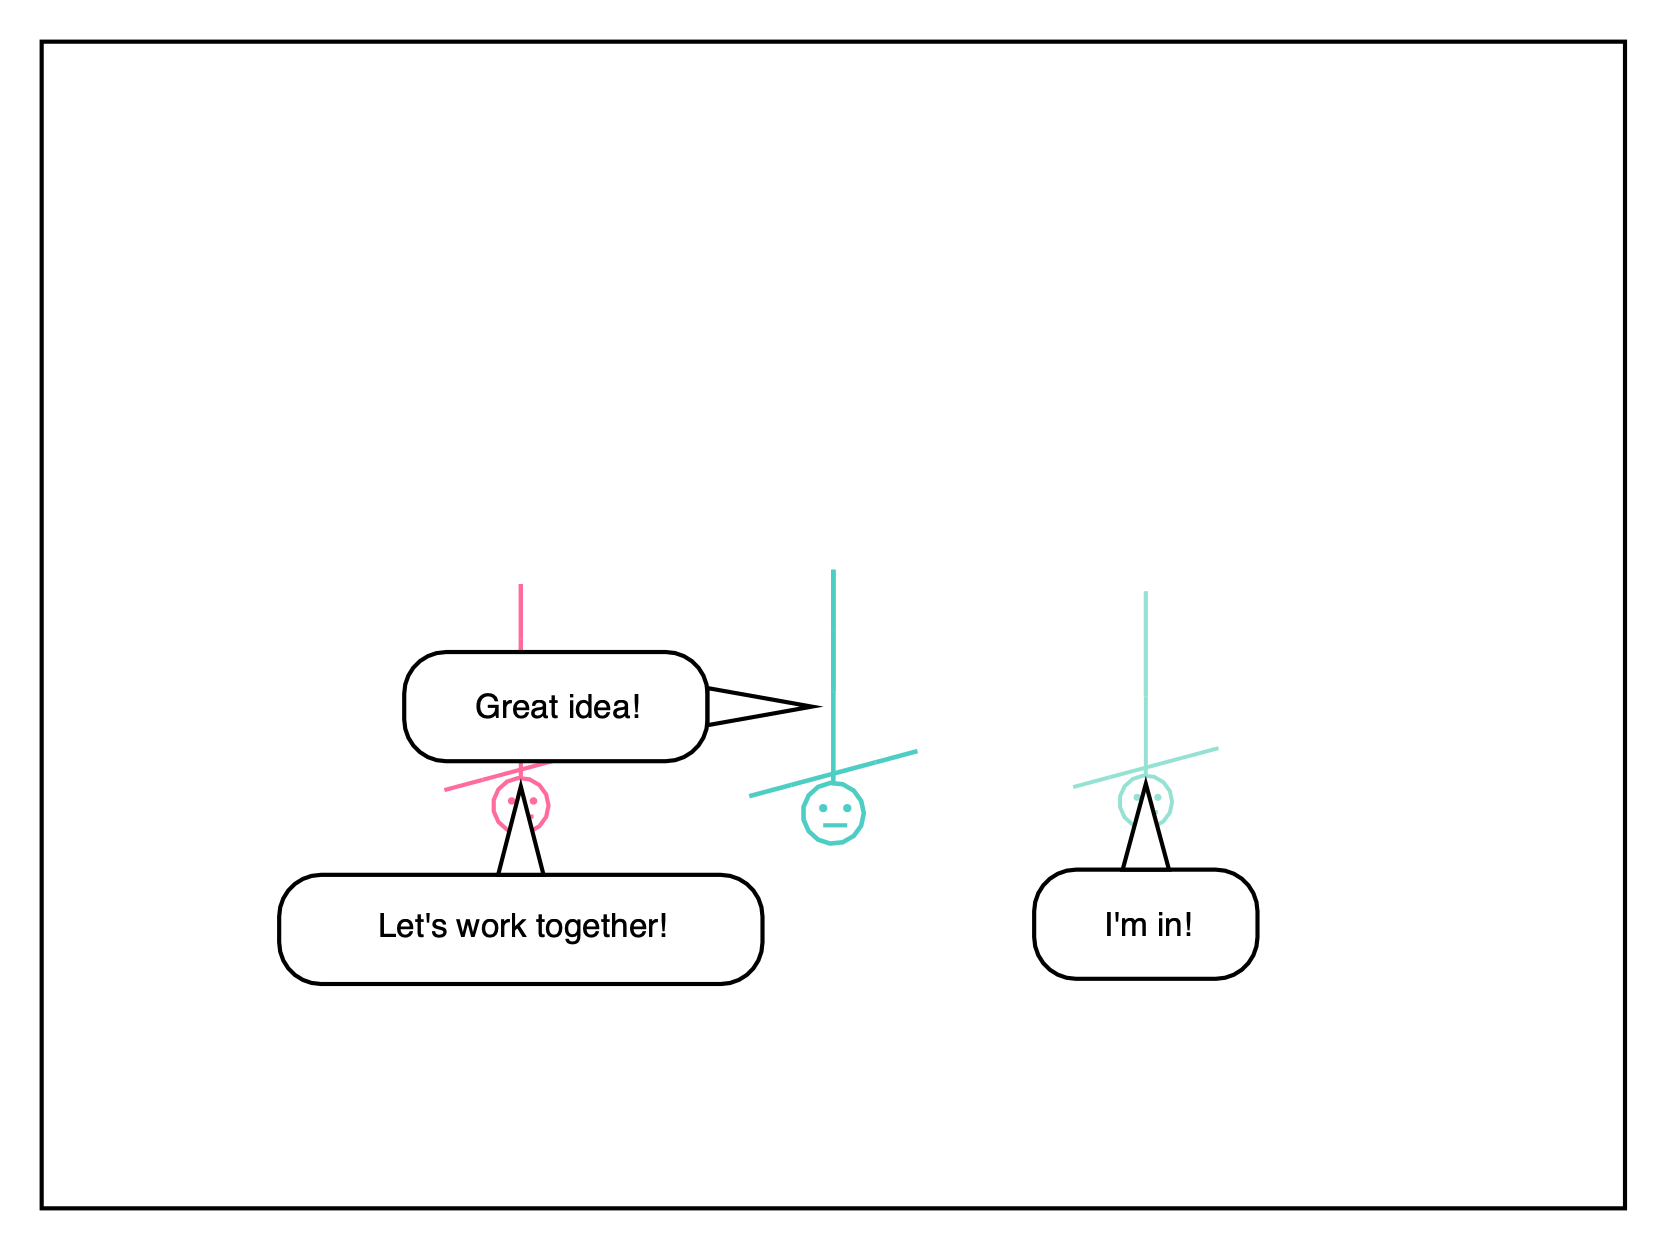
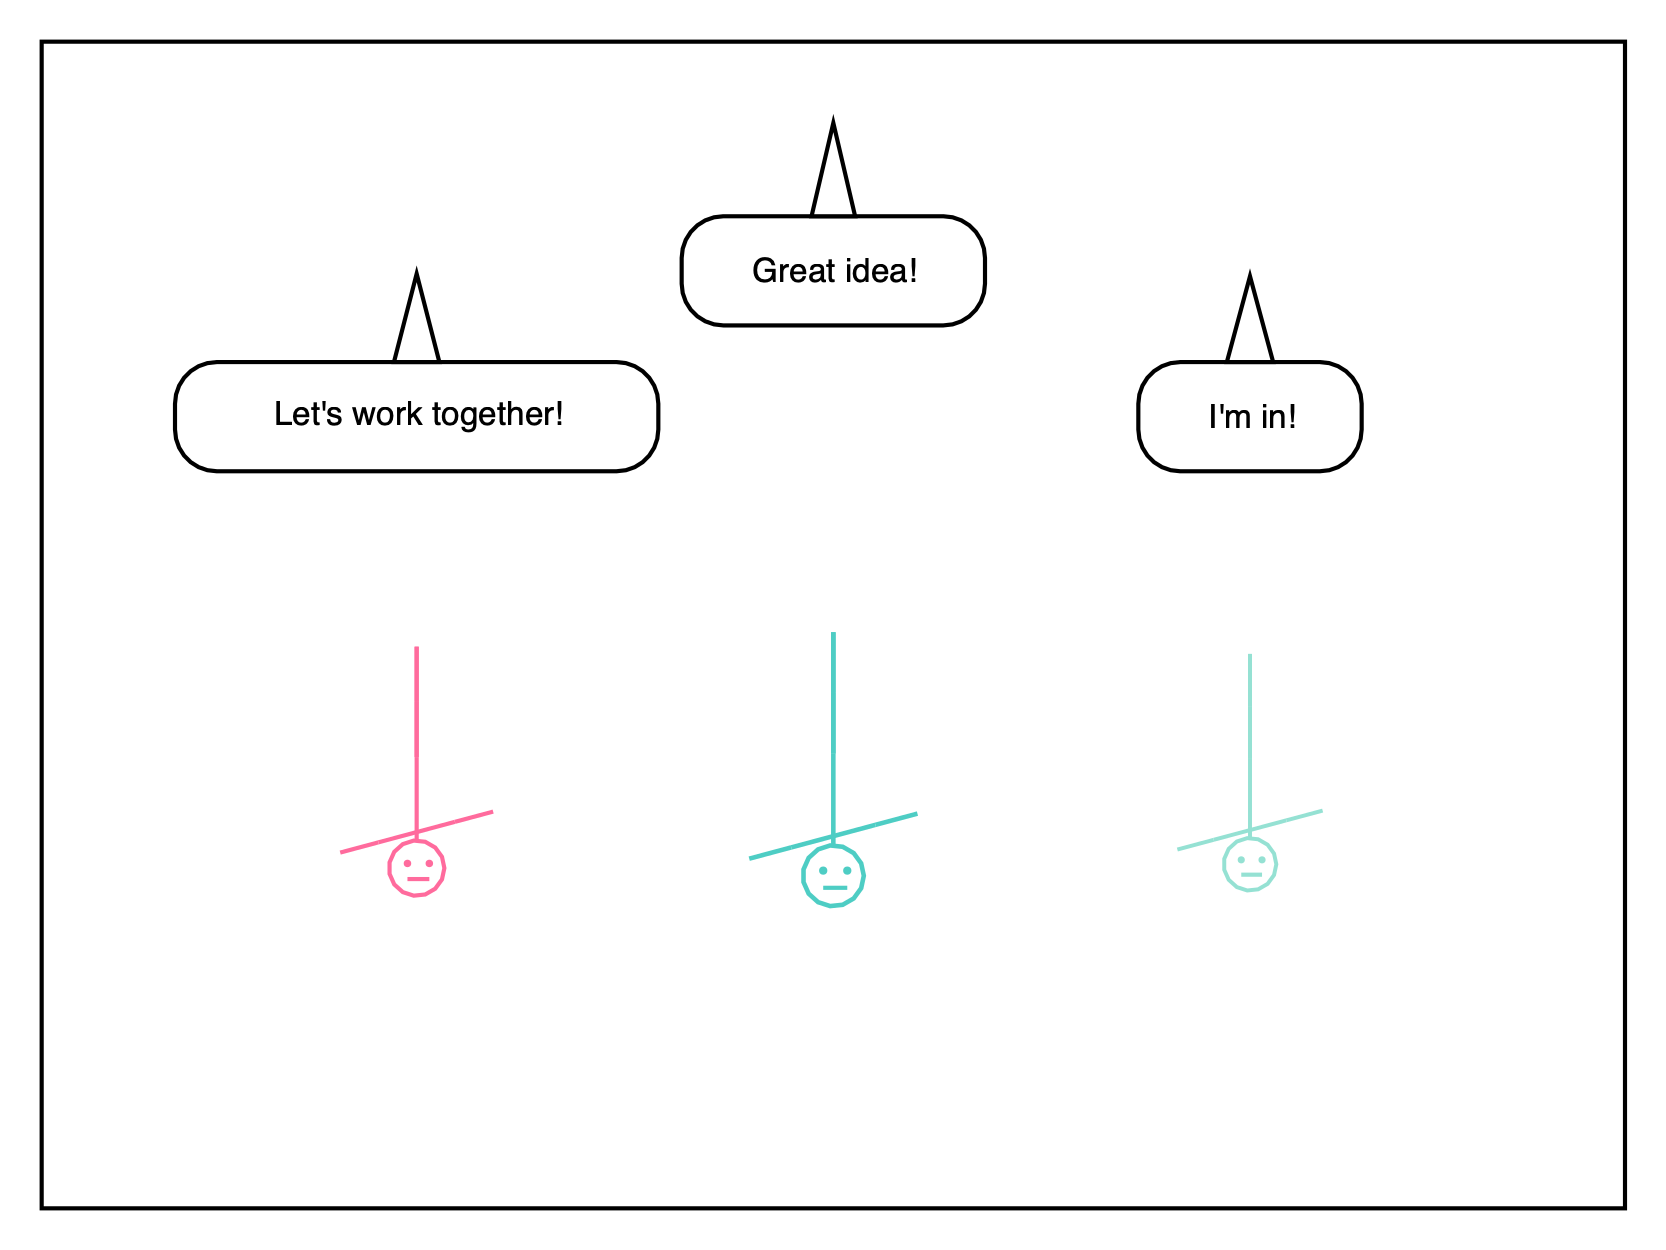
Fix example 03 bubble positioning and bump version to v0.1.85
- Fixed visual bug in example 03 (group_scene) where bubbles overlapped
  with characters due to auto-positioning limitations
- Improved character spacing (x=200, 400, 600) for better visual balance
- Added manual bubble positioning with vertical staggering for clear
  reading order (left to right, top to bottom)
- Used auto_position_bubbles=False since manual positioning is more
  appropriate for complex multi-character scenes
- Updated version to 0.1.85 in pyproject.toml, constants.py, specs/README.md
- Updated IMPLEMENTATION_PLAN.md with v0.1.85 changelog

diff --git a/examples/03_group_scene.py b/examples/03_group_scene.py
@@ -1,4 +1,9 @@
-"""Single panel with multiple characters (group scene)."""
+"""Single panel with multiple characters (group scene).
+
+Demonstrates how to position multiple characters and speech bubbles
+in a single panel without overlap. Uses manual bubble positioning
+to ensure clean, readable dialogue placement.
+"""
 
 from comix import Page, Panel, Stickman
 
@@ -9,20 +14,28 @@ panel.move_to((400, 300))
 
 # Three characters standing in a row
 alice = Stickman(name="Alice", height=100, color="#FF6B9D")
-alice.move_to((250, 350))
-bubble_a = alice.say("Let's work together!")
+alice.move_to((200, 380))
 
 bob = Stickman(name="Bob", height=110, color="#4ECDC4")
-bob.move_to((400, 350))
-bubble_b = bob.say("Great idea!")
+bob.move_to((400, 380))
 
 charlie = Stickman(name="Charlie", height=95, color="#95E1D3")
-charlie.move_to((550, 350))
-bubble_c = charlie.say("I'm in!")
+charlie.move_to((600, 380))
 
-# Add all characters and bubbles to panel
-panel.add_content(alice, bob, charlie)
-panel.add_content(bubble_a, bubble_b, bubble_c)
+# Create bubbles with manual positioning to avoid overlap
+# Stagger vertically for clear reading order (left to right, top to bottom)
+bubble_a = alice.say("Let's work together!")
+bubble_a.move_to((200, 200))  # Top left
+
+bubble_b = bob.say("Great idea!")
+bubble_b.move_to((400, 130))  # Top center (slightly higher)
+
+bubble_c = charlie.say("I'm in!")
+bubble_c.move_to((600, 200))  # Top right
+
+# Add all content to panel (disable auto-positioning since we positioned manually)
+panel.add_content(alice, bob, charlie, auto_position_bubbles=False)
+panel.add_content(bubble_a, bubble_b, bubble_c, auto_position_bubbles=False)
 
 page.add(panel)
 page.render("examples/output/03_group_scene.png")

diff --git a/comix/constants.py b/comix/constants.py
@@ -10,7 +10,7 @@ from typing import Final
 # VERSION
 # =============================================================================
 
-VERSION: Final[str] = "0.1.83"
+VERSION: Final[str] = "0.1.85"
 
 # =============================================================================
 # COLORS - Standard colors used throughout the framework

diff --git a/IMPLEMENTATION_PLAN.md b/IMPLEMENTATION_PLAN.md
@@ -2,7 +2,7 @@
 
 ## Status: Core Features Complete (Phases 1-5) + Simplified Focus
 
-**Current Git Tag: v0.1.84**
+**Current Git Tag: v0.1.85**
 
 프로젝트를 **정적 만화 제작**에 집중하기 위해 간소화했습니다.
 Core phases (1-5) 구현 완료. Advanced features (phases 6-8)는 보류.
@@ -97,9 +97,14 @@ See [CHANGELOG.md](CHANGELOG.md) for version history and release notes.
 
 ---
 
-## Note: Stable Release (v0.1.84)
+## Note: Stable Release (v0.1.85)
 
 All systems stable with 2014 tests passing (+ 30 skipped = 2044 collected). Version numbers synchronized across all files.
+
+v0.1.85 changes:
+- Fixed example 03 (group_scene) bubble positioning - bubbles no longer overlap with characters
+- Improved character spacing and manual bubble positioning for clear reading order
+- Added documentation explaining manual positioning for complex multi-character scenes
 
 v0.1.84 changes:
 - Updated documentation to reflect 9 character types (added AnimalStyle references)

diff --git a/specs/README.md b/specs/README.md
@@ -6,7 +6,7 @@ This directory contains specifications for the Comix comic creation library, wri
 
 Comix is a Python library for creating comics programmatically, inspired by Manim's API design but focused on comic/manga creation instead of mathematical animations.
 
-**Current Status**: All 8 phases implemented. 2014 tests passing (+ 30 skipped = 2044 collected), mypy and ruff pass. **Version: v0.1.83**
+**Current Status**: All 8 phases implemented. 2014 tests passing (+ 30 skipped = 2044 collected), mypy and ruff pass. **Version: v0.1.85**
 
 ## ✅ Visual Bugs Fixed (v0.1.62)
 
